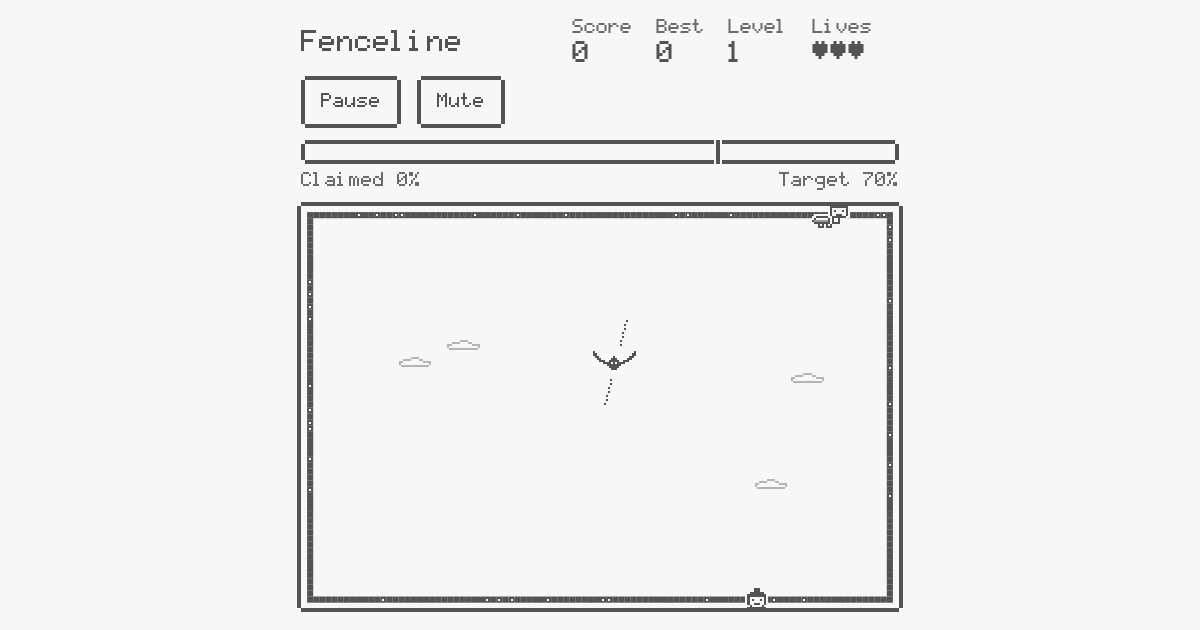
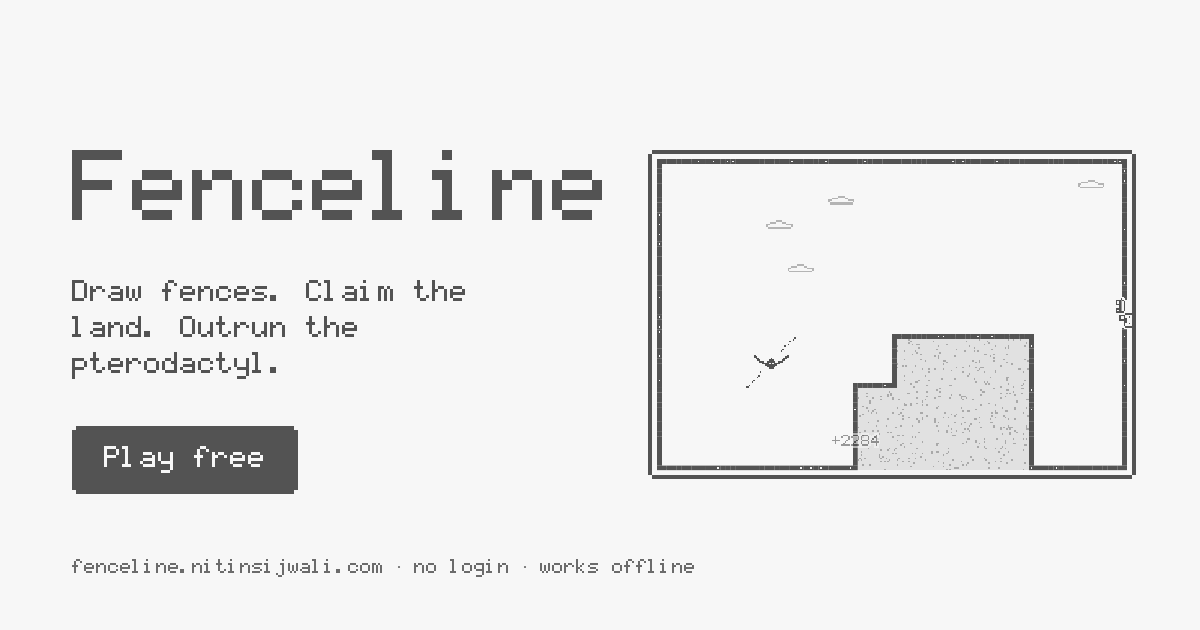
Add About text section below the game and a designed social preview image
Claude-Session: https://claude.ai/code/session_019dHh1ojEMbUVpctdEXVzVa

diff --git a/public/index.html b/public/index.html
@@ -57,14 +57,26 @@
 }
 *{box-sizing:border-box;-webkit-tap-highlight-color:transparent}
 [hidden]{display:none!important}
-html,body{margin:0;height:100%;background:var(--bg);color:var(--text);font:18px/28px var(--font-ui);font-synthesis:none;overflow-x:clip;overflow-y:clip;touch-action:none;user-select:none;-webkit-user-select:none}
-#app{--w:640px;--px:4px;height:100%;display:flex;flex-direction:column;align-items:center;justify-content:center;gap:var(--s3);padding:var(--s2)}
+html,body{margin:0;background:var(--bg);color:var(--text);font:18px/28px var(--font-ui);font-synthesis:none;overflow-x:clip}
+html{height:100%}
+#app{--w:640px;--px:4px;height:100vh;height:100dvh;touch-action:none;user-select:none;-webkit-user-select:none;display:flex;flex-direction:column;align-items:center;justify-content:center;gap:var(--s3);padding:var(--s2)}
 .sr{position:absolute;width:1px;height:1px;overflow:hidden;clip:rect(0 0 0 0);white-space:nowrap}
 
 /* Pixel borders: a 4px box-shadow frame on each side leaves the corners notched, like a sprite outline. Type sits on a 2px pixel grid (18px = 9 font pixels). */
 .bar,.panel,button,#c{--bc:var(--text);border:0;box-shadow:0 -4px 0 0 var(--bc),0 4px 0 0 var(--bc),-4px 0 0 0 var(--bc),4px 0 0 0 var(--bc)}
 .panel{--bc:var(--panel-text)}
 
+/* About text: lives below the game so the page has crawlable words. */
+#about{box-sizing:border-box;width:min(40rem,100% - 32px);margin:0 auto;padding:var(--s6,48px) 0 var(--s6,48px);display:grid;gap:var(--s3)}
+#about h2{margin:0;font-size:27px;line-height:32px;font-weight:400}
+#about h3{margin:var(--s3) 0 0;font-size:18px;line-height:28px;font-weight:400;text-decoration:underline;text-decoration-thickness:2px;text-underline-offset:6px}
+#about p,#about ol{margin:0}
+#about ol{list-style:none;padding:0;counter-reset:step;display:grid;gap:var(--s2)}
+#about li{counter-increment:step;display:grid;grid-template-columns:3ch 1fr}
+#about li::before{content:counter(step) "."}
+#about a{color:inherit;text-decoration:underline;text-decoration-thickness:2px;text-underline-offset:4px}
+#about a:hover{background:var(--text);color:var(--bg);text-decoration:none}
+#about a:focus-visible{outline:4px dotted var(--text);outline-offset:4px}
 #hud{width:var(--hw,var(--w));display:flex;flex-wrap:wrap;align-items:center;justify-content:space-between;gap:var(--s2) var(--s5)}
 .mark{margin:0;font-size:27px;line-height:27px;font-weight:400}
 .stats{display:flex;gap:var(--s5)}
@@ -165,6 +177,21 @@ button.primary:hover{background:var(--bg);color:var(--text)}
   </div>
   <p id="sr" class="sr" aria-live="polite"></p>
 </div>
+<section id="about" aria-labelledby="aboutT">
+  <h2 id="aboutT">About Fenceline</h2>
+  <p>Fenceline is a free pixel arcade game that runs in your browser. It follows the territory-claiming tradition of Qix and Volfied, drawn in the style of the offline dinosaur page. There is no login, no ads and nothing to download. Once the page has loaded it works without a connection.</p>
+  <h3>How to play</h3>
+  <ol>
+    <li>Walk along the walls with the arrow keys or WASD, or swipe on a touch screen.</li>
+    <li>Step into open ground to start a fence, then reach a wall to close it.</li>
+    <li>Land the pterodactyl cannot reach becomes yours. Claim the target percentage to clear the level.</li>
+    <li>Keep your unfinished fence away from the pterodactyl's dotted line, and stay clear of the crawling babies on the walls.</li>
+  </ol>
+  <h3>Three looks, one soundtrack</h3>
+  <p>Every level switches between the Day, Night and Handheld looks. Each has its own palette, land texture and arrangement of the music, which is built around a two-note whistled call and generated live in your browser.</p>
+  <h3>Made by</h3>
+  <p>Created by <a href="https://www.linkedin.com/in/nitinsij/" target="_blank" rel="noopener noreferrer">Nitin Sijwali</a>. The source is on <a href="https://github.com/nsijwali/fenceline" target="_blank" rel="noopener noreferrer">GitHub</a>.</p>
+</section>
 <noscript>Fenceline is a free pixel arcade game. Draw fences across open ground to claim land before the pterodactyl reaches your line. It needs JavaScript to run.</noscript>
 <script>
 'use strict';
